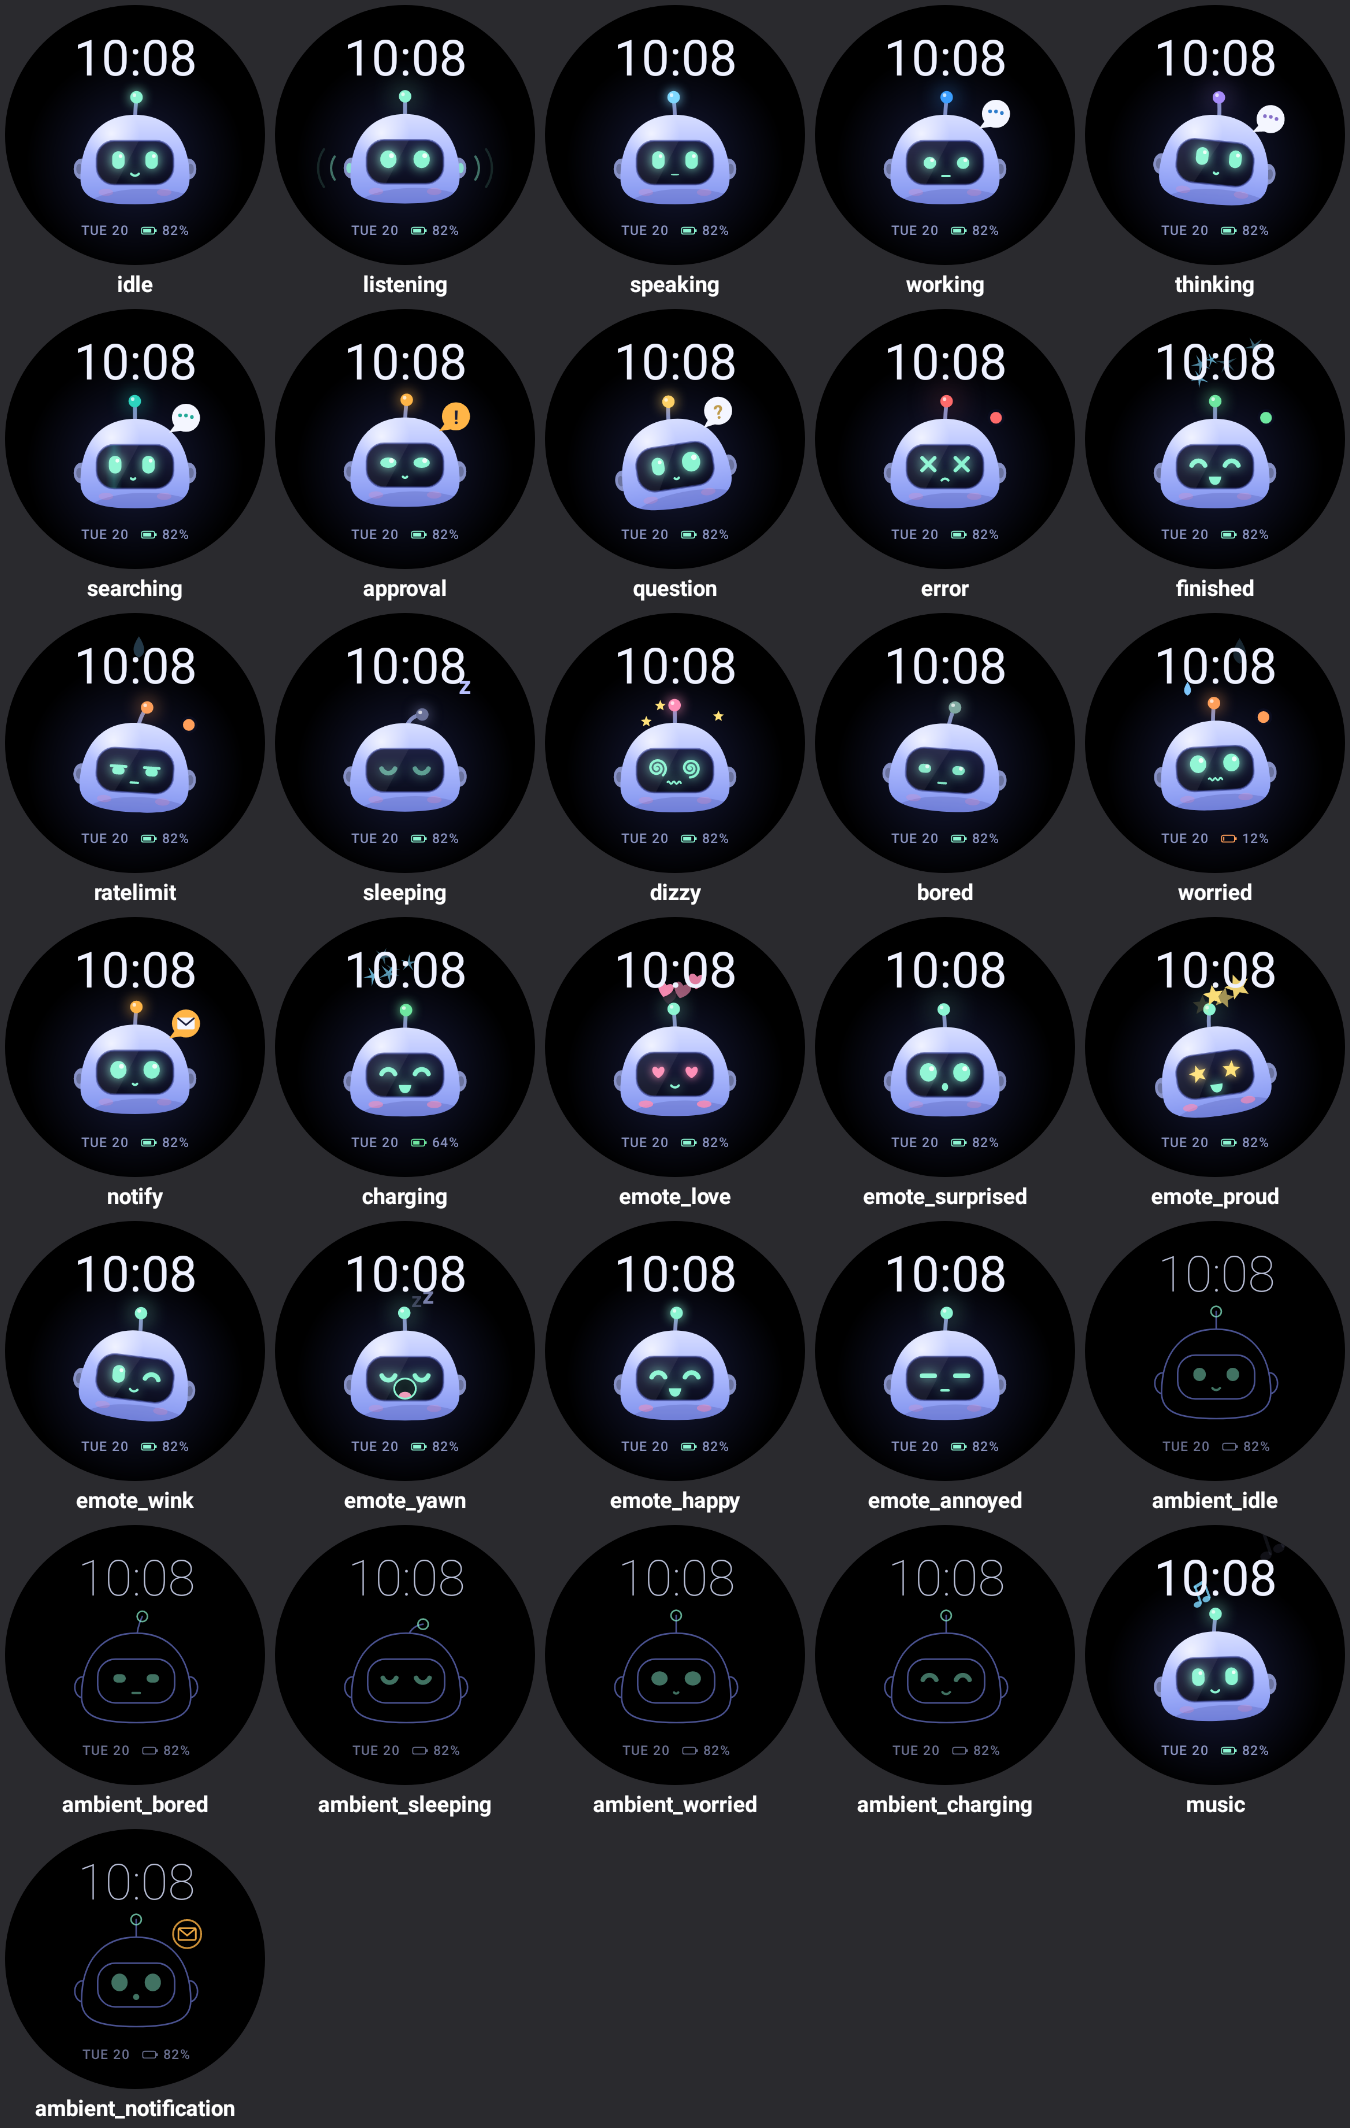
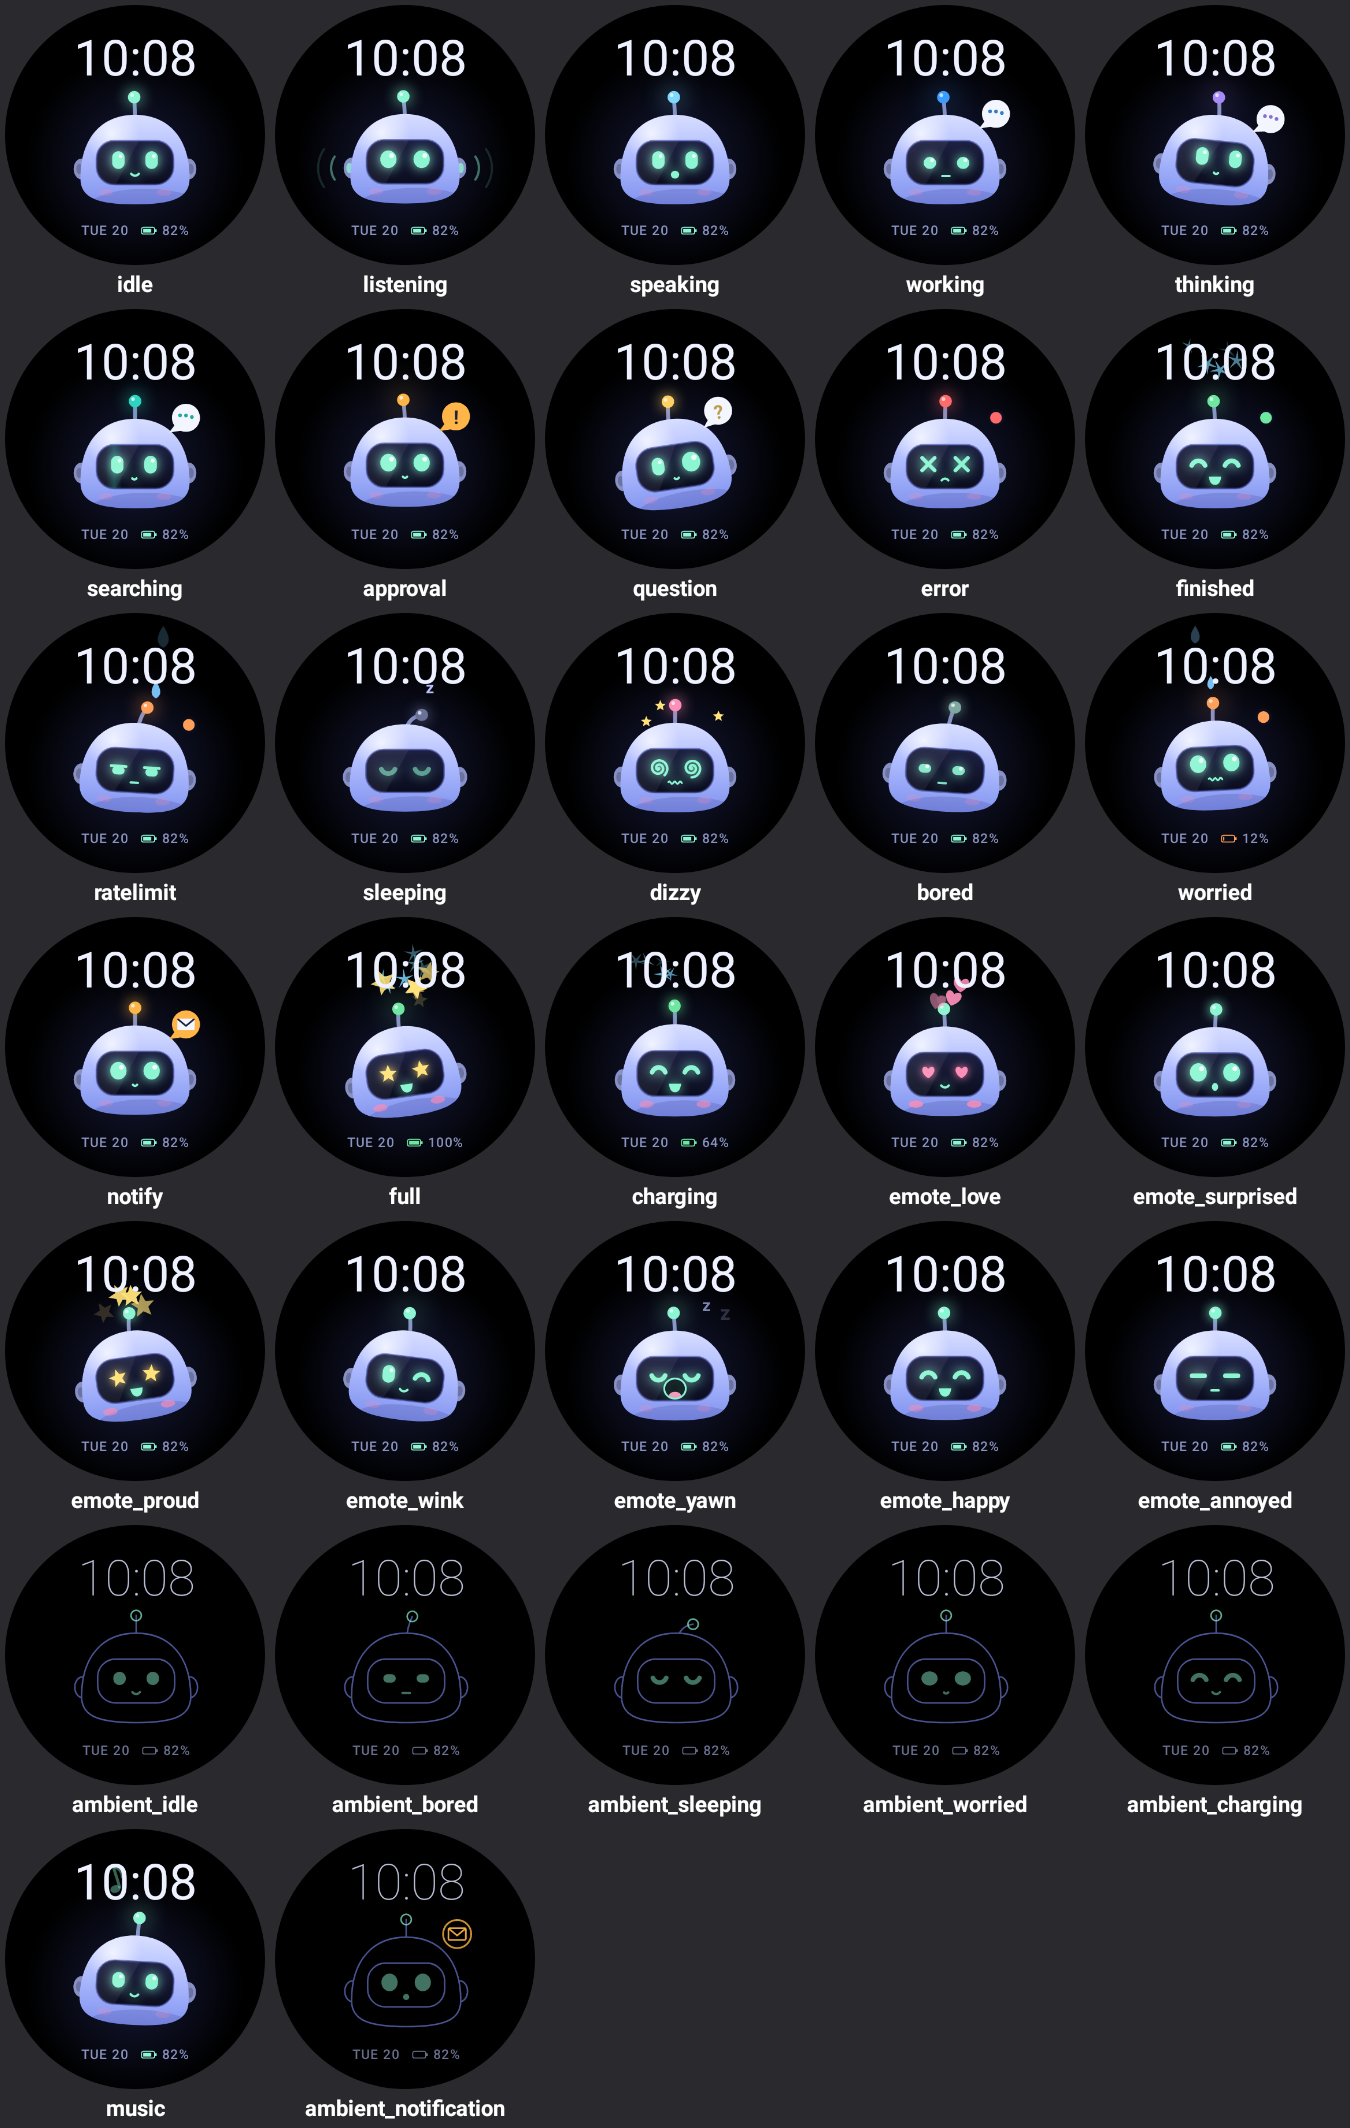
Battery full celebration + FULL state; music only from the ongoing media chip
FULL: spin with sparks, star eyes, then a content green pose with sparkles.
Music: the player's lingering foreground notification no longer keeps the
notes going after playback stops.

diff --git a/avatar/src/main/java/com/jarvis/avatar/JarvisEngine.kt b/avatar/src/main/java/com/jarvis/avatar/JarvisEngine.kt
@@ -135,6 +135,12 @@ class JarvisEngine {
                 anim(Prop.OX, K(0.04f, 60, Ease.OUT), K(-0.04f, 80), K(0.03f, 80), K(0f, 100, Ease.OUT))
             }
             BotState.BORED -> sigh()
+            BotState.FULL -> {
+                // Celebration: a spin with sparks, then star eyes and stars.
+                doRoll(0.95f, 1)
+                later(0.5f) { emit(ParticleType.SPARK, 6) }
+                later(1.0f) { triggerEmote(Emote.PROUD, 2.2f) }
+            }
             else -> if (prev != BotState.IDLE || next != BotState.IDLE) blink()
         }
     }
@@ -333,6 +339,7 @@ class JarvisEngine {
             lastAmbient = n
             if (cfg.zz) emit(ParticleType.Z, 1)
             if (cfg.sweat && Random.nextFloat() < 0.5f) emit(ParticleType.SWEAT, 1)
+            if (cfg == BotState.FULL && Random.nextFloat() < 0.25f) emit(ParticleType.SPARK, 1)
             if (cfg == BotState.BORED && Random.nextFloat() < 0.12f) {
                 if (Random.nextFloat() < 0.3f) triggerEmote(Emote.YAWN, 2.2f) else sigh()
             }
@@ -376,6 +383,7 @@ class JarvisEngine {
             BotState.WORRIED -> pulse = if (sin(lt * 3f) > 0) 0.9f else 0.25f
             BotState.BORED -> pulse = 0.25f + 0.15f * sin(lt)
             BotState.CHARGING -> pulse = 0.5f + 0.5f * sin(lt * 2.5f)
+            BotState.FULL -> pulse = 0.85f
             else -> Unit
         }
         val open = v[Prop.OPEN.ordinal] * lids

diff --git a/watchface/src/main/java/com/jarvis/watchface/JarvisNotificationListener.kt b/watchface/src/main/java/com/jarvis/watchface/JarvisNotificationListener.kt
@@ -55,7 +55,7 @@ class JarvisNotificationListener : NotificationListenerService() {
         updateMusic()
     }
 
-    /** A media notification is showing (Wear removes it when playback pauses). */
+    /** Wear's ongoing media chip is showing (it is removed when playback pauses). */
     private var mediaNotification = false
 
     private fun updateMusic() {
@@ -100,7 +100,9 @@ class JarvisNotificationListener : NotificationListenerService() {
     private fun recount() {
         val active = try { activeNotifications } catch (e: Exception) { null } ?: return
         AvatarBus.setUnread(active.count(::counts))
-        mediaNotification = active.any(::isMedia)
+        // Only the ongoing media chip: Wear removes it on pause. The player's foreground-service
+        // notification (NO_CLEAR, not ongoing) lingers after music stops, so it doesn't count.
+        mediaNotification = active.any { it.isOngoing && isMedia(it) }
         updateMusic()
     }
 

diff --git a/watchface/src/main/java/com/jarvis/watchface/MoodDirector.kt b/watchface/src/main/java/com/jarvis/watchface/MoodDirector.kt
@@ -14,7 +14,7 @@ import kotlin.random.Random
  *
  * Priority, highest first:
  *   debug hold → listening (after a tap) → remind (after a notification)
- *   → charging → low battery (worried) → bored / asleep at night → idle
+ *   → full / charging → low battery (worried) → bored / asleep at night → idle
  *
  * All times are uptime milliseconds.
  */
@@ -161,7 +161,7 @@ class MoodDirector(private val engine: JarvisEngine) {
         hold?.let { return it }
         if (now < listenUntil) return BotState.LISTENING
         if (now < remindUntil) return BotState.NOTIFY
-        if (charging) return BotState.CHARGING
+        if (charging) return if (batteryLevel >= 100) BotState.FULL else BotState.CHARGING
         if (batteryLevel <= LOW_BATTERY) return BotState.WORRIED
         if (now - lastInteraction > boredAfterMs) {
             return if (drowsiness(hour) >= 0.8f) BotState.SLEEPING else BotState.BORED

diff --git a/watchface/src/test/java/com/jarvis/watchface/ScreenshotTest.kt b/watchface/src/test/java/com/jarvis/watchface/ScreenshotTest.kt
@@ -39,8 +39,9 @@ class ScreenshotTest {
     fun renderAll() {
         val shots = mutableListOf<Shot>()
         for (s in BotState.entries) {
-            val battery = when (s) { BotState.WORRIED -> 12; BotState.CHARGING -> 64; else -> 82 }
-            shots += Shot(s.name.lowercase(), frame(battery = battery, charging = s == BotState.CHARGING) { e ->
+            val battery = when (s) { BotState.WORRIED -> 12; BotState.CHARGING -> 64; BotState.FULL -> 100; else -> 82 }
+            val onCharger = s == BotState.CHARGING || s == BotState.FULL
+            shots += Shot(s.name.lowercase(), frame(battery = battery, charging = onCharger) { e ->
                 e.setState(s, force = true); 1.6f
             })
         }

diff --git a/watchface/src/main/java/com/jarvis/watchface/FacePainter.kt b/watchface/src/main/java/com/jarvis/watchface/FacePainter.kt
@@ -178,7 +178,7 @@ class FacePainter(private val context: Context) {
         pose.mouthOpen = 0f
         when (engine.state) {
             BotState.SLEEPING -> { pose.eyes = Eye.CLOSED; pose.mouth = Mouth.NONE }
-            BotState.CHARGING -> { pose.eyes = Eye.HAPPY; pose.mouth = Mouth.SMILE }
+            BotState.CHARGING, BotState.FULL -> { pose.eyes = Eye.HAPPY; pose.mouth = Mouth.SMILE }
             BotState.WORRIED -> { pose.eyes = Eye.WIDE; pose.mouth = Mouth.SMALL; pose.open = 0.8f }
             BotState.BORED -> { pose.eyes = Eye.FOCUS; pose.mouth = Mouth.FLAT; pose.open = 0.7f }
             else -> { pose.eyes = Eye.OPEN; pose.mouth = Mouth.SMILE; pose.open = 0.75f }

diff --git a/avatar/src/main/java/com/jarvis/avatar/BotState.kt b/avatar/src/main/java/com/jarvis/avatar/BotState.kt
@@ -67,6 +67,9 @@ enum class BotState(
     /** A notification arrived: the approval look with a letter in the bubble. */
     NOTIFY(0xFFFFB547.toInt(), Eye.WIDE, Mouth.SMALL, BadgeKind.MAIL, bounces = true),
 
+    /** Fully charged: proud and content, steady green light, an occasional sparkle. */
+    FULL(0xFF6EE7A0.toInt(), Eye.HAPPY, Mouth.GRIN, breathes = true, blush = 0.4f, floatSpeed = 1.2f, floatAmp = 0.03f),
+
     /** On the charger: happy eyes, grin, green light, breathing, blushing. */
     CHARGING(0xFF6EE7A0.toInt(), Eye.HAPPY, Mouth.GRIN, breathes = true, blush = 0.55f, floatSpeed = 1.4f),
 }

diff --git a/watchface/src/test/java/com/jarvis/watchface/MoodDirectorTest.kt b/watchface/src/test/java/com/jarvis/watchface/MoodDirectorTest.kt
@@ -46,6 +46,9 @@ class MoodDirectorTest {
         d.setRealBattery(10, true)
         d.update(2_000L, noon)
         assertEquals(BotState.CHARGING, engine.state)
+        d.setRealBattery(100, true)
+        d.update(3_000L, noon)
+        assertEquals(BotState.FULL, engine.state)
     }
 
     @Test
